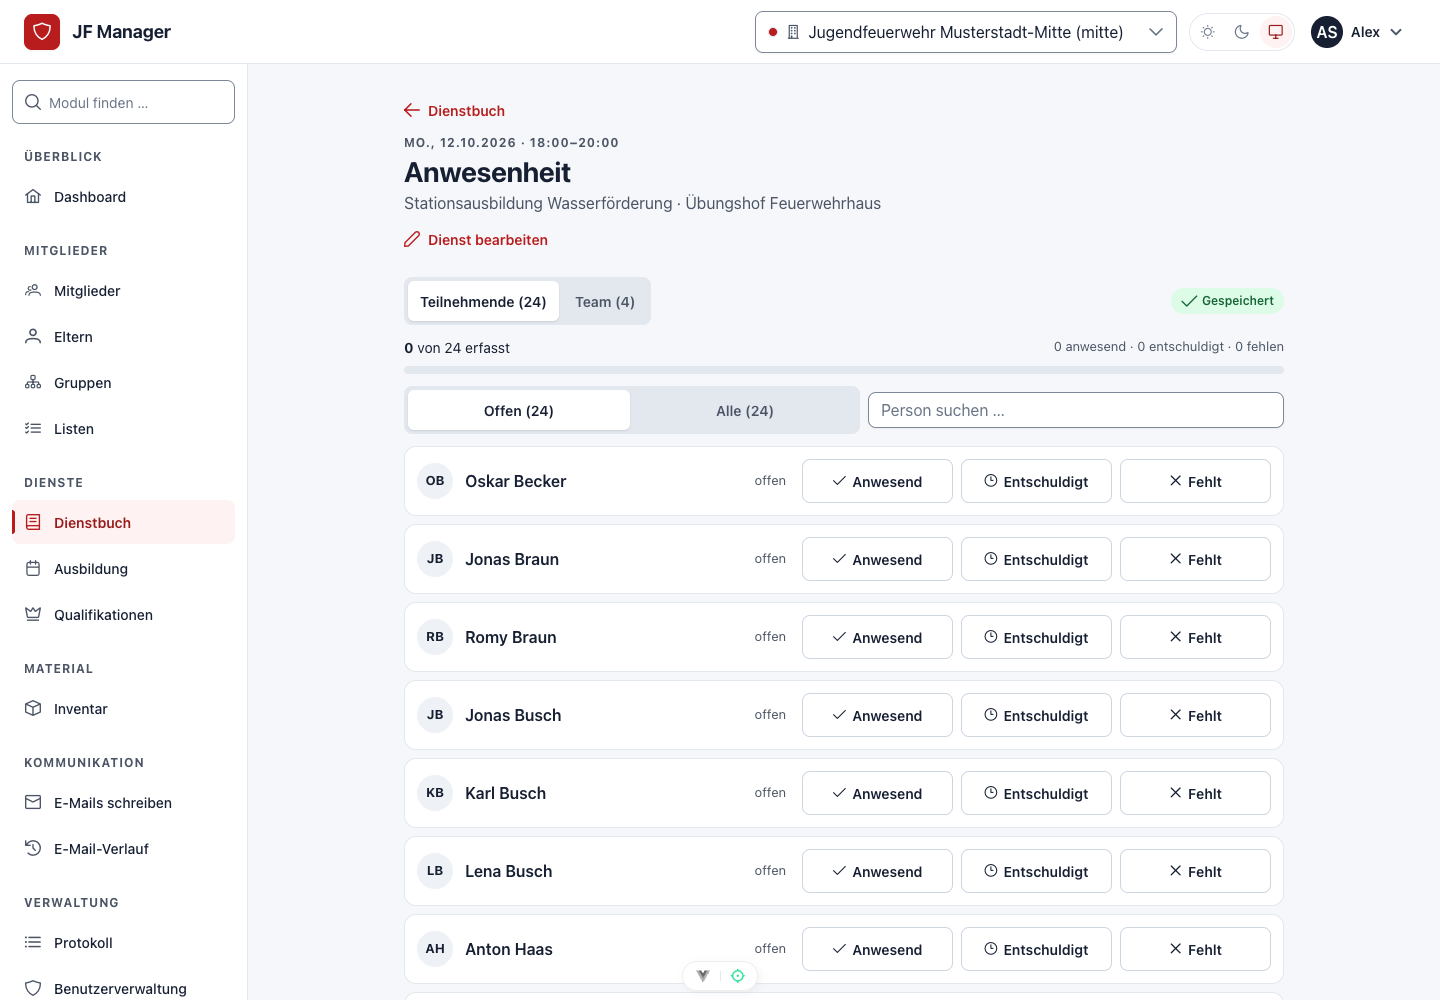
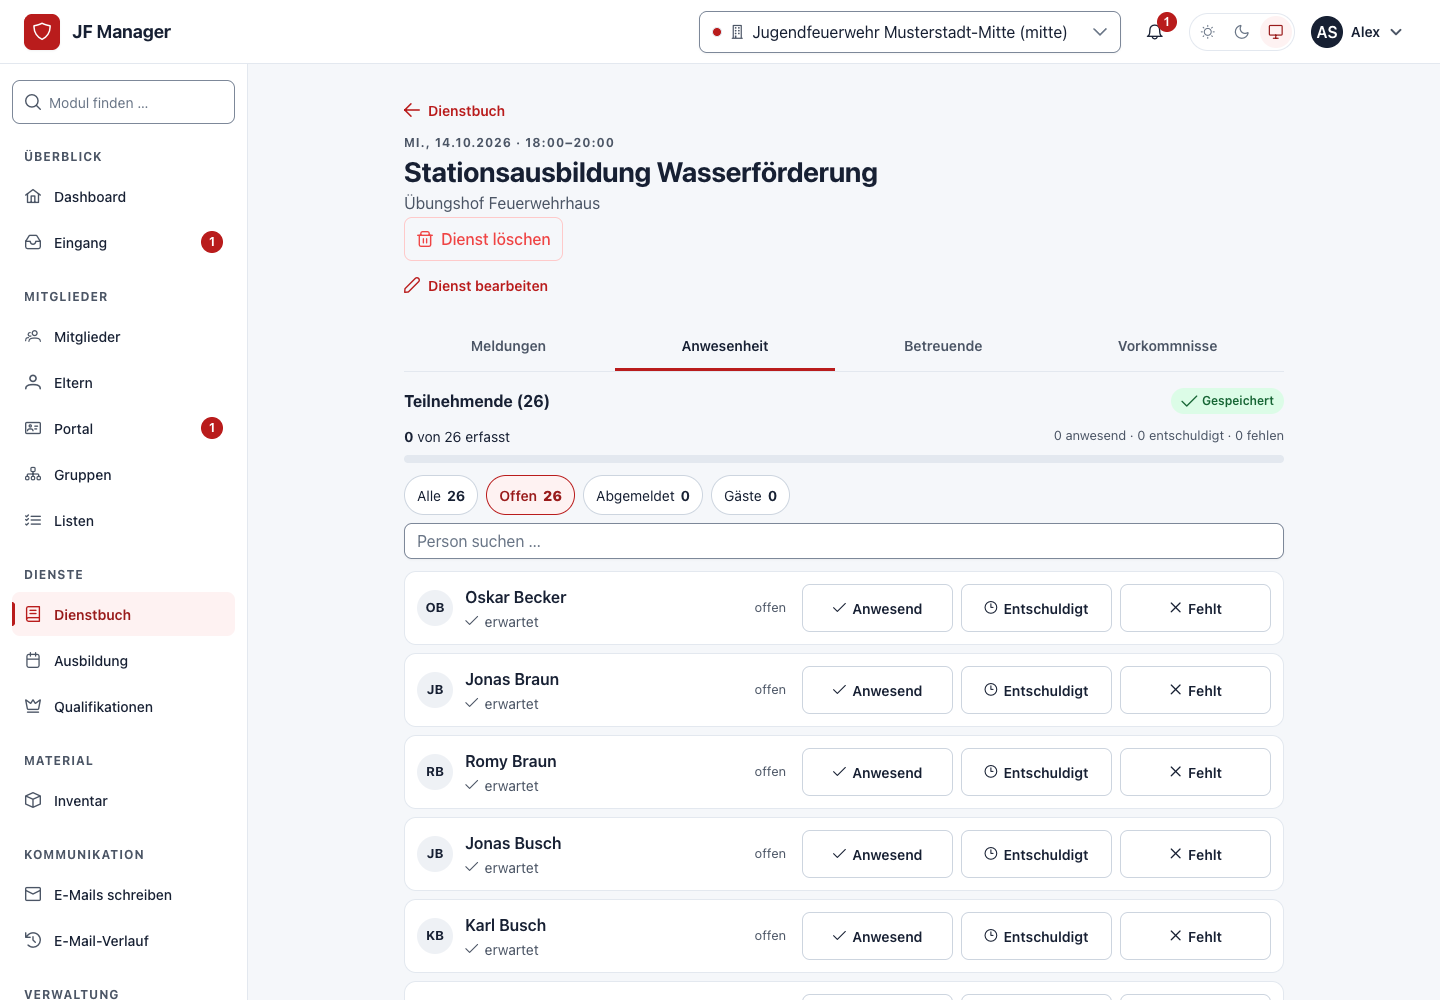
docs(DOC-01.5): document the portal, participation and assignment with new images

diff --git a/docs/handbook/operators/participation.md b/docs/handbook/operators/participation.md
@@ -1,0 +1,68 @@
+# Teilnahme, Positionen und Zuteilung
+
+Für geplante Dienste legst du fest, wer sich anmelden darf, wie viele Plätze es gibt und ob du die Plätze selbst zuteilst. Eltern und Mitglieder melden sich im [Portal](../portal.md) an oder ab; im Dienstbuch siehst du diese Meldungen bei der Anwesenheit.
+
+### Teilnahme für einen Dienst einstellen
+
+Öffne die Übung im **Übungsplaner** und wähle **Teilnahme** (auf schmalen Bildschirmen unter **Weitere Aktionen**). Im Reiter **Teilnahme** stellst du ein:
+
+| Einstellung | Bedeutung |
+| --- | --- |
+| **Abmeldung** | Alle aus der Zielgruppe sind erwartet und melden sich bei Bedarf ab. Positionen gibt es in diesem Modus nicht. |
+| **Anmeldung** | Nur wer sich anmeldet, nimmt teil. Plätze werden in der Reihenfolge der Anmeldung vergeben. |
+| **Zuteilung** | Personen bewerben sich, du verteilst die Plätze auf einem Board und veröffentlichst das Ergebnis. |
+| **Fristen** | Anmelde- und Abmeldeschluss. Danach sind Änderungen nur noch durch die Leitung möglich. |
+| **Voraussetzungen** | Regeln wie Mindestalter oder Qualifikationen. Die Vorschau zeigt, wer sie erfüllt, auch über eine höhere Qualifikation („erfüllt durch …“). |
+
+![Positionen, Mindestbesetzung und Besetzungsvorlage im Teilnahme-Dialog](../images/participation-positions.png)
+
+*Positionen mit eigener Regel, Mindest- und Höchstzahl. Die Kopfzeile nennt, ob die Mindestbesetzung erfüllt ist.*
+
+### Positionen, Plätze und Warteliste
+
+Lege unter **Positionen** fest, welche Aufgaben es gibt (zum Beispiel Wachführung und Truppmann/-frau), wie viele Plätze jede hat und wie viele mindestens besetzt sein müssen. Das Gesamtmaximum ergibt sich aus den Positionen und zusätzlichen Plätzen ohne Position.
+
+- Wer „beliebig“ wählt, bekommt die knappste passende Position.
+- Ist eine Position voll, landet die Person auf der **Warteliste** dieser Position.
+- Wird ein Platz frei, rückt bei automatischer Warteliste die erste passende Person nach und wird benachrichtigt. Bei manueller Warteliste erhältst du im **Eingang** die Aufgabe „Platz frei“.
+- Sagt kurz vor dem Dienst jemand ab und die Mindestbesetzung ist gefährdet, meldet der Eingang das ebenfalls.
+
+Belegte Positionen lassen sich nicht verkleinern oder löschen; verschiebe vorher die Personen.
+
+### Meldungen ansehen
+
+Der Reiter **Meldungen** zeigt Zusagen, Absagen, Wartelisten und Bewerbungen mit Position oder Wunsch und Herkunft der Meldung (Elternkonto, selbst, Betreuende).
+
+![Meldungen eines Dienstes mit Status und Position je Person](../images/participation-registrations.png)
+
+### Plätze zuteilen
+
+Im Modus **Zuteilung** öffnest du den Reiter **Zuteilung**. Links stehen die Bewerbungen mit passenden Positionen, Wunsch und Qualifikationen, rechts die Positionen mit Belegung.
+
+![Zuteilungsboard mit Bewerbungen und Positionen](../images/assignment-board.png)
+
+Ziehe eine Person auf eine Position. Ungeeignete Positionen werden beim Ziehen grau und nennen den Grund. Ohne Maus wählst du bei der Person **Zuteilen zu …** und die Position.
+
+![Eine Bewerbung wird per Drag-and-drop auf eine Position gezogen](../images/assignment-drag.gif)
+
+*Animation: Zuteilung per Drag-and-drop. Die Tastatur- und Touch-Alternative „Zuteilen zu …“ steht bei jeder Person.*
+
+Das Board ist zunächst ein **Entwurf**. Mit **Zuteilung veröffentlichen** erhalten die Zugeteilten ihre Position und eine Mitteilung; die anderen Bewerbungen bleiben offen oder werden als nicht ausgewählt markiert. Hat jemand anderes inzwischen etwas geändert, zeigt das Board den aktuellen Stand und speichert deinen Entwurf nicht ungefragt.
+
+### Besetzungsvorlagen
+
+Wiederkehrende Besetzungen (zum Beispiel eine Brandsicherheitswache) speicherst du als **Besetzungsvorlage** und wendest sie auf neue Dienste an. Die Vorlage wird kopiert; spätere Änderungen an der Vorlage verändern bestehende Dienste nicht. Übungsvorlagen und Serien übernehmen die Besetzung ebenfalls.
+
+### Meldungen bei der Anwesenheit
+
+In der Anwesenheitserfassung, auf der eigenen Anwesenheitsseite wie im Reiter **Anwesenheit** unter **Dienst bearbeiten**, siehst du bei jeder Person den Meldestatus. Mit **Abmeldungen als entschuldigt übernehmen** trägst du abgemeldete Personen in einem Schritt als entschuldigt ein; bereits erfasste Anwesenheiten bleiben unverändert.
+
+### Eingang und Änderungsanträge
+
+Der **Eingang** sammelt Aufgaben und Hinweise für dein Team, zum Beispiel freie Plätze, gefährdete Mindestbesetzung oder neue Anträge. Die Glocke im Kopf zeigt die Zahl offener Aufgaben.
+
+![Eingang mit offenen Aufgaben](../images/inbox.png)
+
+Eltern und Mitglieder können im Portal Änderungen an Kontaktdaten beantragen. Unter **Portal → Anträge** prüfst du jeden Antrag feldweise: übernehmen oder ablehnen, bei Konflikten mit zwischenzeitlich geänderten Daten mit ausdrücklicher Bestätigung. Eigene Anträge prüft immer jemand anderes.
+
+![Prüfansicht eines Änderungsantrags](../images/change-requests.png)

diff --git a/docs/planning/security-ux-design-roadmap.md b/docs/planning/security-ux-design-roadmap.md
@@ -36,7 +36,6 @@ Nur Punkte, die laut Git-Verlauf und Detailblöcken nicht umgesetzt oder nicht a
 | PART-04 | Abnahme | Positionen, Warteliste, Zuteilungsboard, Besetzungsvorlagen umgesetzt (PART-04.1–04.6); Browser-/Nutzerabnahme Board (Maus/Tastatur) und Portal 390/1440 px. | — |
 | PORTAL-04 | Abnahme | Verwaltendenkonto als Mitglied/Elternteil umgesetzt (PORTAL-04.1–04.5); Browser-/Nutzerabnahme Bestätigungsschritt (MFA, Passkey, SSO), „Meine …“-Bereiche, Vier-Augen-Sperre. | — |
 | PORTAL-01, NOTIF-01 | Abnahme | Echte Zustellung über SMTP und Web-Push (bisher Datei-Mailversand). | Produktivnahe Umgebung |
-| DOC-01 (Portal) | Bau | Handbuch um Portal, Teilnahme, Eingang und Anträge ergänzen, mehr aktuelle Screenshots und bewegte Abläufe für Drag-and-drop (Planer, Zuteilungsboard). | Fachabnahme Portal, PART-04 |
 
 | Punkt | Art | Inhalt | Voraussetzung |
 | --- | --- | --- | --- |
@@ -2370,3 +2369,4 @@ Neue Einträge anhängen. Frühere Ergebnisse nicht nachträglich als erfolgreic
 | 10.10.2026 | SEC-13.4 | API-Dokumentation lauffähig: `drf-spectacular-sidecar` (2026.10.1) in Pipfile/`Pipfile.lock` aufgenommen (gezielt per `pipenv upgrade`, keine anderen Pakete verändert) und in `INSTALLED_APPS`; Swagger UI und Redoc laden ihre Bundles vom eigenen Ursprung, passend zur erzwungenen CSP. | Bestanden: neuer Test (Bundles referenziert und über Staticfiles auffindbar, kein CDN), `api_tests.test_csp_policy test_production_settings` 18/18, Ruff. Nicht ausgeführt: Browser, Release-Lockdatei (entsteht beim Release aus `Pipfile.lock`). | Dieser Commit: `fix(SEC-13.4): ship Swagger UI and Redoc with drf-spectacular-sidecar` | DOC-01 |
 | 10.10.2026 | UX-10.9 | Rest aus UX-10.7: Der versteckte Zählersatz steht jetzt in der Beschriftung des Navigationslinks; Chrome berechnete vorher wegen des `inline-flex`-Badges „Portal , 1 offener Antrag“. Glocke: Einträge werden beim Anklicken als gelesen markiert, nicht schon beim Öffnen der Glocke; das bleibt so (bloßes Öffnen ist kein Lesen). Die Angabe „beim Öffnen“ im Journaleintrag UX-10.2 ist damit überholt. | Bestanden: `components/layout` 13/13 (bestehende Ansagetests unverändert grün), Typecheck, ESLint. Nicht ausgeführt: Screenreader. | Dieser Commit: `fix(UX-10.9): announce navigation counts without a gap` | DOC-01 |
 | 10.10.2026 | PLAN-PRIVACY | Nutzerauftrag: Verweise auf die private Produktivinstanz (NAS, interne IP, Datenpfade, Benutzerkonto, Betriebsnotizen, konkrete Datenmengen und Sicherungskennungen) aus der Roadmap entfernt: Abschnitt-0-Absätze, Detailblock OPS-05.7, Teilschritte und Journalzeilen OPS-05.6/05.7/06.4/06.5 sowie Einzelsätze in Status und Detailblöcken. Dabei durch die Merge-Auflösung `ba782e4` doppelt vorhandene Blöcke OPS-06 und OPS-05.7 bereinigt. Allgemeine Beispieladressen in Betriebsanleitungen und Tests bleiben (keine echte Infrastruktur). Git-Historie unverändert (siehe Bericht an den Nutzer). | Bestanden: Suche nach IP, NAS, Pfaden und Konto ohne Treffer, keine doppelten Überschriften. | Dieser Commit: `docs(PLAN): remove references to the private production instance` | DOC-01 |
+| 10.10.2026 | DOC-01.5 | Handbuch erweitert: neues Kapitel „Teilnahme, Positionen und Zuteilung“ (Modi, Fristen, Voraussetzungen, Positionen/Warteliste/Nachrücken, Meldungen, Zuteilungsboard, Besetzungsvorlagen, Meldungen bei der Anwesenheit, Eingang und Änderungsanträge), neuer Bereich „Eltern und Mitglieder → Portal“, Administratorkapitel „Portalzugänge und verknüpfte Konten“ (PORTAL-04); Übungsplanung (Bibliothek ziehen), Dienstbuch („Fehlt“), Inventar (Codeeingabe, Teilrücknahme, Statusverlauf), README und Handbuch-Einstieg ohne „Portal in Entwicklung“. Zehn neue Bilder und zwei animierte Drag-and-drop-Abläufe (`assignment-drag.gif`, `planner-drag.gif`) über neues reproduzierbares Skript `scripts/docs/capture-portal.cjs` (nur isolierte Demo, Sitzung wiederverwendet wegen TOTP-Einmaligkeit); alle zwölf bestehenden Bilder neu aufgenommen; Vue-Devtools-Knopf des Dev-Servers in beiden Skripten ausgeblendet; `provenance.json` mit Datum und Konten aktualisiert. Aussagen gegen die Oberfläche abgeglichen (Freigaben unter Portal, Verknüpfung auf Mitglied-/Elternseite, Sammeleinladung nur Eltern). | Bestanden: strikter Build mit Link-/Anker-/Asset-Prüfung (36 Seiten, ZIP), `scripts/docs/test_build` 6/6, Sichtprüfung der Kernbilder. Nicht ausgeführt: Veröffentlichung (mit dem Merge nach `main`). | Dieser Commit: `docs(DOC-01.5): document the portal, participation and assignment with new images` | Browserabnahme |

diff --git a/docs/handbook/portal.md b/docs/handbook/portal.md
@@ -1,0 +1,36 @@
+# Portal für Eltern und Mitglieder
+
+Das Portal ist der eigene Zugang für Eltern und Mitglieder. Es zeigt nur, was die Leitung freigibt: kommende Termine, eigene Meldungen und ausgewählte Stammdaten. Anwesenheiten, Notizen und das Dienstbuch sind im Portal nicht sichtbar.
+
+### Zugang einrichten
+
+Die Leitung schickt dir eine Einladung per E-Mail. Über den Link legst du dein Passwort fest und bestätigst den Datenschutzhinweis. Danach meldest du dich auf derselben Seite an wie das Team; das Portal öffnet sich automatisch. Im **Profil** kannst du zusätzlich einen zweiten Faktor oder einen Passkey einrichten.
+
+Eltern sehen alle verknüpften Kinder; oben wählst du, für wen du gerade handelst. Der Elternzugang zu einem Kind endet mit dessen 18. Geburtstag, sofern die Leitung ihn nicht verlängert.
+
+![Portal-Übersicht mit den nächsten Diensten des gewählten Kindes](images/portal-home.png)
+
+### An- und abmelden
+
+Unter **Übersicht** und **Termine** stehen die kommenden Dienste mit Status, zum Beispiel **Erwartet**, **Angemeldet**, **Warteliste** oder **Nicht möglich**.
+
+- Bei Diensten mit **Abmeldung** bist du erwartet und meldest dich nur bei Bedarf ab.
+- Bei Diensten mit **Anmeldung** meldest du dich an, solange Plätze frei sind; sonst kommst du auf die Warteliste.
+- Bei Diensten mit **Zuteilung** bewirbst du dich und kannst optional eine Wunschposition angeben. Die Leitung entscheidet und du erhältst eine Mitteilung.
+- **Zeitraum abmelden (z. B. Urlaub)** meldet alle noch möglichen Dienste in diesem Zeitraum auf einmal ab.
+
+![Termin mit Positionen, freien Plätzen und Warteliste](images/portal-positions.png)
+
+*Positionen zeigen nur, ob noch Plätze frei sind, nie wer schon angemeldet ist. „Nicht möglich“ nennt die fehlende Voraussetzung.*
+
+Nach dem Anmelde- oder Abmeldeschluss sind Änderungen nur noch über die Leitung möglich.
+
+![Termine im Portal](images/portal-sessions.png)
+
+### Daten prüfen und Änderungen beantragen
+
+Unter **Daten** siehst du die freigegebenen Stammdaten. Stimmt etwas nicht, beantragst du die Änderung direkt dort. Die Leitung prüft den Antrag und übernimmt ihn oder lehnt ihn mit Begründung ab; du siehst den Stand am jeweiligen Feld.
+
+### Mitteilungen
+
+Die Glocke zeigt neue Hinweise, zum Beispiel neue Termine, Nachrücken von der Warteliste oder Zuteilungen. Unter **Profil → Mitteilungen** legst du fest, welche Hinweise du zusätzlich per E-Mail oder Push bekommst. Jede Teilnahme-E-Mail enthält einen Link zum Abmelden und zu diesen Einstellungen.

diff --git a/docs/handbook/operators/inventory.md b/docs/handbook/operators/inventory.md
@@ -11,7 +11,9 @@ Unter **Inventar** findest du Übersicht, Ausgabe, Ausgegeben, Bestand, Artikel,
 3. Wähle die auszugebenden Artikel und Mengen und bestätige die Ausgabe.
 4. Prüfe die Zuordnung anschließend unter **Ausgegeben** oder im Mitgliederprofil unter **Ausrüstung**.
 
-Bei einer Rückgabe nutze die Rückgabefunktion, damit die Ausleihe abgeschlossen und der Bestand korrekt verbucht wird. Bestandsbewegungen wie Eingang, Ausgabe, Umlagerung und Aussonderung werden als Buchungen dokumentiert. Eine Aussonderung benötigt einen Grund und entsprechende Rechte.
+Statt zu scannen, kannst du im Ausgabedialog einen **Code** eingeben (Größe, Nummer, Barcode oder Inventarnummer); der passende Artikel und die Größe werden übernommen. Je Zeile siehst du, wie viel verfügbar, bereits ausgegeben und nachbestellt ist.
+
+Bei einer Rückgabe öffne **Artikel zurückgeben**: Wähle das Mitglied, trage je Artikel die zurückgegebene Menge ein (auch Teilmengen, **Alles** übernimmt die ganze Menge) und den Lagerort. Alle Positionen werden in einer Buchung zurückgenommen; ist zu viel angegeben, wird nichts gebucht und der Grund genannt. Bestandsbewegungen wie Eingang, Ausgabe, Umlagerung und Aussonderung werden als Buchungen dokumentiert. Eine Aussonderung benötigt einen Grund und entsprechende Rechte.
 
 **Artikel** beschreiben eure Ausstattung, **Kategorien** strukturieren sie und **Lagerorte** geben an, wo sie liegt. Prüfe den Tab Verlauf, wenn eine Bestandsänderung nachvollzogen werden soll.
 
@@ -21,7 +23,7 @@ Bestellungen sind in das Inventarmodul integriert über **Inventar → Bestellun
 
 1. Erstelle die Bestellung mit den benötigten Positionen und Mengen.
 2. Öffne die Detailansicht, um Positionen und ihren Status zu prüfen.
-3. Wähle im Verlauf die zulässigen nächsten Status.
+3. Wähle im Verlauf die zulässigen nächsten Status. Der Abschnitt **Statusverlauf** zeigt je Position, wer wann welchen Status gesetzt hat.
 4. Bei inventarverknüpften Artikeln kannst du beim Eingang einen Lagerort für die Buchung auswählen und bei der Übergabe eine Ausleihe anlegen.
 
 Welche Statuswechsel möglich sind, richtet sich nach der eingerichteten Bestellkonfiguration. Die Auswertung der Bestellungen bietet einen Überblick über den Beschaffungsprozess. Wenn Push auf eurem Server eingerichtet und auf deinem Gerät aktiviert ist, können neue Bestellungen und Statusänderungen eine Mitteilung auslösen.

diff --git a/docs/handbook/publishing.md b/docs/handbook/publishing.md
@@ -42,7 +42,7 @@ Die getrennten Build-/Deployjobs folgen der [GitHub-Pages-Dokumentation](https:/
 
 ## Aktuelle Screenshots erzeugen
 
-Alle Bilder in `handbook/images/` stammen aus `backend/demo.py` und dem aktuellen `seed_demo`. Es werden keine bestehenden Datenbanken verwendet. `provenance.json` hält Aufnahmestand, Quelle und Größen fest. Der Abschnitt „App & Mitteilungen“ wird als gezielter Bildausschnitt aufgenommen. Das Konto ist ein Demo-Superuser; Fachkonten sehen entsprechend weniger Aktionen. Die produktive Push-Zustellung und echte Passkey-Geräte sind durch diese Aufnahmen nicht geprüft.
+Alle Bilder in `handbook/images/` stammen aus `backend/demo.py` und dem aktuellen `seed_demo`. Es werden keine bestehenden Datenbanken verwendet. `provenance.json` hält Aufnahmestand, Quelle und Größen fest. Der Abschnitt „App & Mitteilungen“ wird als gezielter Bildausschnitt aufgenommen. Portal-, Teilnahme- und Zuteilungsbilder sowie die animierten Drag-and-drop-Abläufe (`assignment-drag.gif`, `planner-drag.gif`) erzeugt `scripts/docs/capture-portal.cjs` gegen dieselbe Demo; dafür wird `ffmpeg` benötigt (Playwright: `playwright install ffmpeg`). Das Konto ist ein Demo-Superuser; Fachkonten sehen entsprechend weniger Aktionen. Die produktive Push-Zustellung und echte Passkey-Geräte sind durch diese Aufnahmen nicht geprüft.
 
 1. In `backend/` `PIPENV_DONT_LOAD_ENV=1 pipenv run python demo.py --port 8012` starten. Das Terminal nennt einen neuen temporären Ordner `jf-manager-demo-…`. Die Demo sperrt echten E-Mail-/Push-Versand.
 2. In `frontend/` `VITE_BACKEND_URL=http://127.0.0.1:8012 npm run dev -- --host 127.0.0.1 --port 5174` starten. Andere laufende Dienste nicht ersetzen.

diff --git a/docs/handbook/administrators/portal.md b/docs/handbook/administrators/portal.md
@@ -1,0 +1,18 @@
+# Portalzugänge und verknüpfte Konten
+
+### Portalzugänge verwalten
+
+Unter **Portal → Zugänge** verwaltest du die Zugänge von Eltern und Mitgliedern. Eltern lädst du einzeln oder gesammelt ein; Mitglieder einzeln, sobald das Mitgliederportal unter **Freigaben** freigegeben ist. Ein Zugang lässt sich sperren, entsperren oder beenden; Beenden meldet alle Geräte ab.
+
+Portalkonten erhalten nie Rollen oder Rechte des Teams und erreichen keine Verwaltungsseite. Welche Daten das Portal zeigt, legst du unter **Portal → Freigaben** fest.
+
+### Eigenes Konto mit Mitglied oder Elternteil verknüpfen
+
+Betreuende, die selbst Mitglied sind oder Kinder in der Jugend haben, brauchen kein zweites Portalkonto. Auf der Seite des Mitglieds bzw. Elternteils verknüpfst du im Abschnitt **Verwaltungskonto** ein Konto mit genau einem Mitglieds- und/oder einem Elterndatensatz (Recht zur Benutzerverwaltung nötig). Die verknüpfte Person bestätigt die Verknüpfung bei der nächsten Anmeldung; bis dahin bleibt sie ausstehend.
+
+Danach erscheinen im Verwaltungslayout **Meine Dienste**, **Meine Daten** und gegebenenfalls **Meine Kinder**. Dabei gilt:
+
+- Änderungen an eigenen Daten werden als Eigenänderung protokolliert.
+- Eigene Qualifikationen und Sonderaufgaben (und die der eigenen Kinder) pflegt immer jemand anderes (Vier-Augen-Prinzip).
+- Ist dieselbe Qualifikation am Konto und am Mitglied erfasst, zeigt die Qualifikationsverwaltung die Doppelung zum Zusammenführen.
+- Im Dienstbuch zählt eine verknüpfte Person je Dienst entweder als Teilnehmende oder als Betreuende, nie doppelt.

diff --git a/docs/handbook/index.md b/docs/handbook/index.md
@@ -15,6 +15,6 @@ Alle Produktabbildungen im Handbuch stammen aus einer isolierten lokalen Demo mi
 
 ## Umfang und Entwicklungsstand
 
-Beschrieben sind die vorhandenen Verwaltungsfunktionen einschließlich Rollen, Mehrfaktor-Anmeldung, Übungsdurchführung und Anwesenheitsauswertung. Eltern-/Mitgliederportal, Teilnahmevoraussetzungen, Warteliste, Zuteilung und neuer Benachrichtigungseingang befinden sich noch in Entwicklung. Ein Elternkontakt oder Mitgliedsdatensatz allein erteilt keinen Zugang. Diese Erweiterungen werden nach ihrer Abnahme ergänzt.
+Beschrieben sind die vorhandenen Verwaltungsfunktionen einschließlich Rollen, Mehrfaktor-Anmeldung, Übungsdurchführung und Anwesenheitsauswertung. Dazu kommen das Portal für Eltern und Mitglieder, Teilnahmevoraussetzungen, Positionen, Warteliste, Zuteilung und der Eingang für Aufgaben und Hinweise. Ein Elternkontakt oder Mitgliedsdatensatz allein erteilt keinen Zugang; Zugänge entstehen erst über eine Einladung.
 
 Die Dokumentation ist als statische Website und als Markdown lesbar. [Handbuch bauen, prüfen und ausliefern](publishing.md) erklärt den ZIP-Export und GitHub Pages. Über die Suche findest du Begriffe; auf jeder Seite führt das Inhaltsverzeichnis zu den einzelnen Arbeitsschritten. Die Druckfunktion des Browsers druckt den geöffneten Artikel.

diff --git a/README.md b/README.md
@@ -34,7 +34,7 @@ Das bebilderte Handbuch erklärt Grundkonzepte und führt schrittweise durch die
 | Kommunizieren | Empfängerauswahl, E-Mail-Vorschau, Vorlagen, Versandhistorie und freiwillige Gerätemitteilungen |
 | Zuständigkeiten regeln | Abteilungsrechte, 16 Standardrollen, Wirkungsvorschau, Delegation, LDAP und OIDC-SSO |
 
-Bestellungen findet ihr unter **Inventar → Bestellungen**, im Dashboard oder per Direktlink. Die **Anwesenheitsauswertung** ist eine eigene Seite im Dienstbuch. Ein Mitglieds-/Elterndatensatz ist kein Benutzerkonto. Eltern-/Mitgliederportal und erweiterte Teilnahmesteuerung befinden sich noch in Entwicklung und sind im Handbuch als solche gekennzeichnet.
+Bestellungen findet ihr unter **Inventar → Bestellungen**, im Dashboard oder per Direktlink. Die **Anwesenheitsauswertung** ist eine eigene Seite im Dienstbuch. Ein Mitglieds-/Elterndatensatz ist kein Benutzerkonto. Eltern und Mitglieder erhalten über das Portal einen eigenen Zugang für Termine, An- und Abmeldungen und Änderungsanträge; Positionen, Warteliste und Zuteilung steuert die Leitung je Dienst.
 
 ![Übungsplan mit Stationen, Gruppenbahnen und Planungswarnungen](docs/handbook/images/planner.png)
 

diff --git a/docs/handbook/operators/training.md b/docs/handbook/operators/training.md
@@ -47,3 +47,11 @@ Das **Handout** (Drucken oder PDF) enthält Version und Stand, den Ablauf, je St
 ### Bibliothek
 
 In der Bibliothek pflegst du wiederverwendbare Inhalte mit Kategorien, Tags und einer Standarddauer. Ein Bibliotheksbaustein wird beim Einfügen in die Übung kopiert; spätere Änderungen in der Bibliothek verändern geplante Übungen nicht.
+
+Im Planer öffnest du die Bibliothek mit **Bibliothek** als Seitenleiste. Ziehe einen Baustein in die Bahn einer Gruppe und an die gewünschte Uhrzeit, oder tippe ihn an, um ihn einzufügen. Die Breite der Leiste lässt sich am Rand ziehen (oder per Pfeiltasten ändern) und wird gemerkt; auf großen Bildschirmen zeigt sie Beschreibung, Tags und Nutzung in zwei Spalten.
+
+![Ein Bibliotheksbaustein wird in eine Gruppenbahn gezogen](../images/planner-drag.gif)
+
+*Animation: Baustein aus der Bibliothek in den Plan ziehen. Danach steht „Ungespeicherter Planentwurf“, bis du speicherst.*
+
+Die Teilnahme an einer Übung (Anmeldung, Positionen, Zuteilung) beschreibt [Teilnahme, Positionen und Zuteilung](participation.md).

diff --git a/docs/handbook/operators/services.md b/docs/handbook/operators/services.md
@@ -18,7 +18,7 @@ Wähle im Anwesenheitsbereich **Teilnehmende**. Suche nach einem Namen oder akti
 | --- | --- |
 | **Anwesend** | Anwesend |
 | **Entschuldigt** | Entschuldigt |
-| **Fehlt** | Fehlend |
+| **Fehlt** | Fehlt |
 | Keine Auswahl | Noch nicht erfasst |
 
 Ein Antippen speichert die Auswahl sofort. Tippe denselben Status erneut an, um ihn zurückzusetzen. Die Zähler zeigen anwesende, entschuldigte, fehlende und noch offene Personen. **Nicht erfasst** wird nicht automatisch als **fehlend** gewertet.
